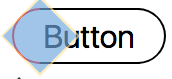
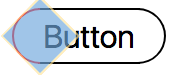
[dev] Update readme.

Changed region(s): [[0.0, 0.08, 0.9884, 1.0], [0.0872, 0.96, 0.1453, 1.0]]

diff --git a/README.md b/README.md
@@ -7,4 +7,4 @@ It can change padding or border width even font size
 
 use Pseudo Element & transform rotate
 
-[](./button.png)
+[](https://github.com/tedshd/round-button/blob/master/button.png)
